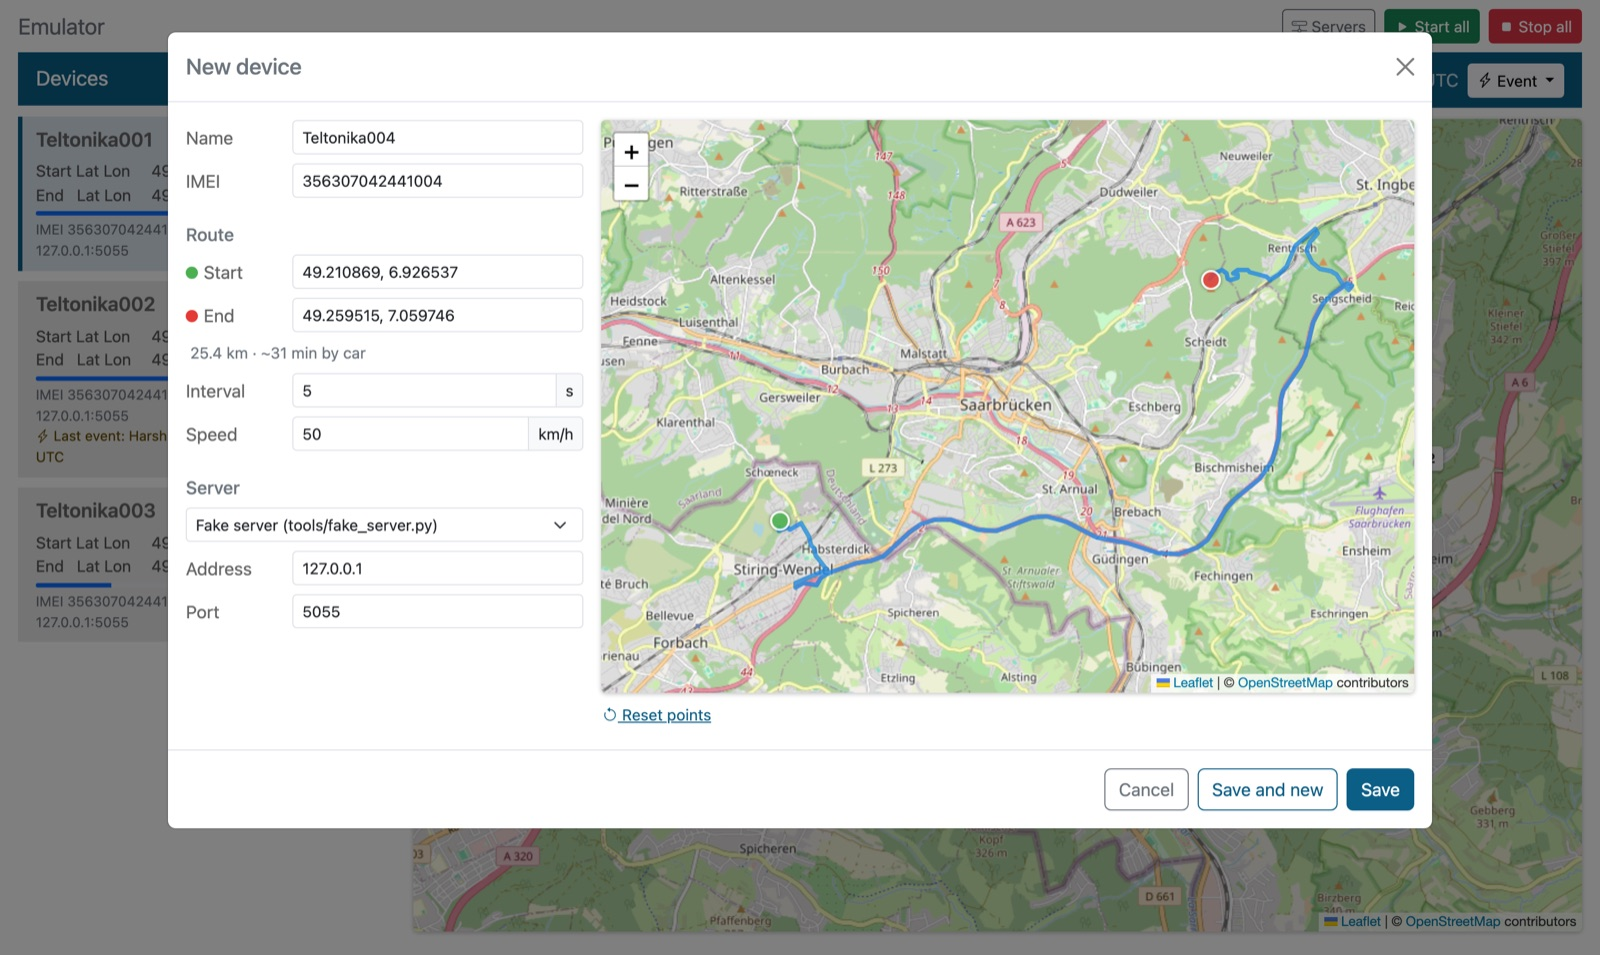
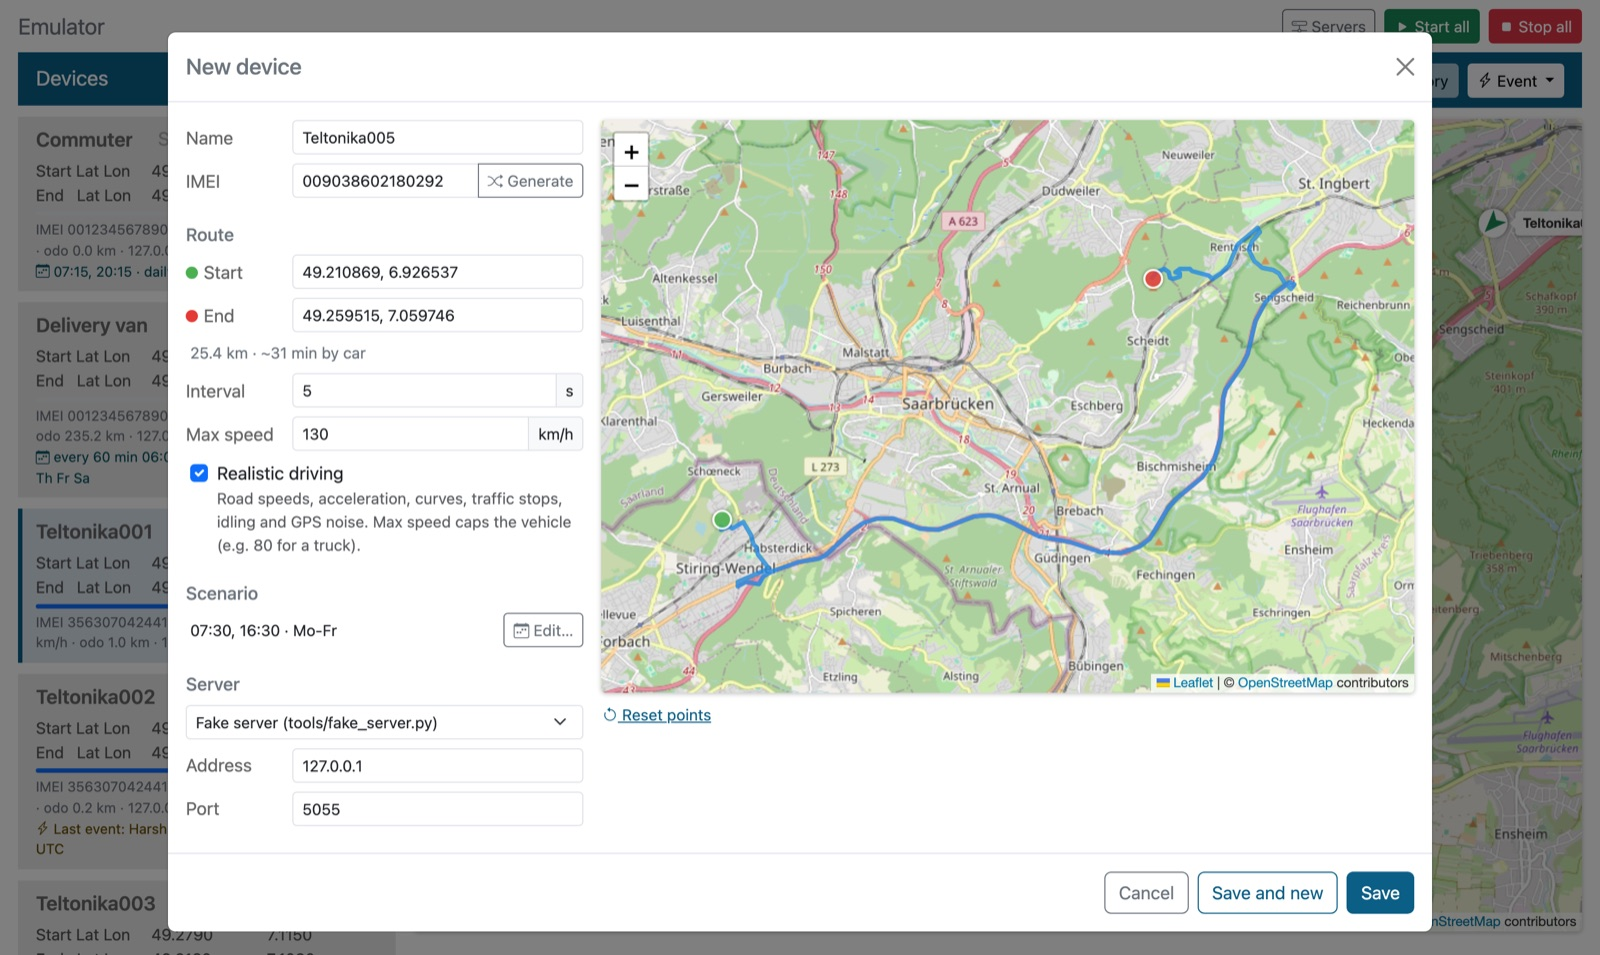
Update screenshots: scenarios, history, realistic driving
- New screenshots of the web app (main window, event menu, device dialog,
  iPhone) and the desktop app with live realistic driving and a parked
  scenario device
- New: scenario dialog and history dialog

diff --git a/README.md b/README.md
@@ -14,7 +14,7 @@ It comes with two interfaces on top of the same core:
 
 **Stack:** Python · Flask (web) · PySide6/Qt (desktop) · SQLite · vanilla JavaScript + Bootstrap 5 · Leaflet + OpenStreetMap · Docker
 
-![Main window: devices driving along their routes](docs/screenshots/main.jpg)
+![Main window: devices driving along their routes, a scenario device parked until its next departure](docs/screenshots/main.jpg)
 
 ## Features
 
@@ -46,6 +46,8 @@ It comes with two interfaces on top of the same core:
 | Add a device: click start and end on the map | Send an event from a running device |
 |---|---|
 | ![Add device dialog with a generated route](docs/screenshots/add-device.jpg) | ![Event menu](docs/screenshots/events.jpg) |
+| **Scenario: drive on a schedule** | **History: weeks of past data in seconds** |
+| ![Scenario dialog with the next departures](docs/screenshots/scenario.jpg) | ![History dialog](docs/screenshots/history.jpg) |
 
 <p align="center">
   <img src="docs/screenshots/iphone.jpg" alt="Emulator on an iPhone" width="300"><br>
@@ -224,7 +226,7 @@ python -m desktop
 
 | Add / edit a device | |
 |---|---|
-| ![Desktop device dialog](docs/screenshots/desktop-device.jpg) | Click the map for the start and end point. The route is generated in the background and the markers can be dragged. |
+| ![Desktop device dialog](docs/screenshots/desktop-device.jpg) | Click the map for the start and end point. The route is generated in the background and the markers can be dragged. The scenario is edited in its own dialog (**Edit…**). |
 
 ## Running the web app without Docker
 

diff --git a/todo.md b/todo.md
@@ -1,0 +1,3 @@
+- mozliwosc dodania device do servera traccar za pomoca api tracara
+
+
